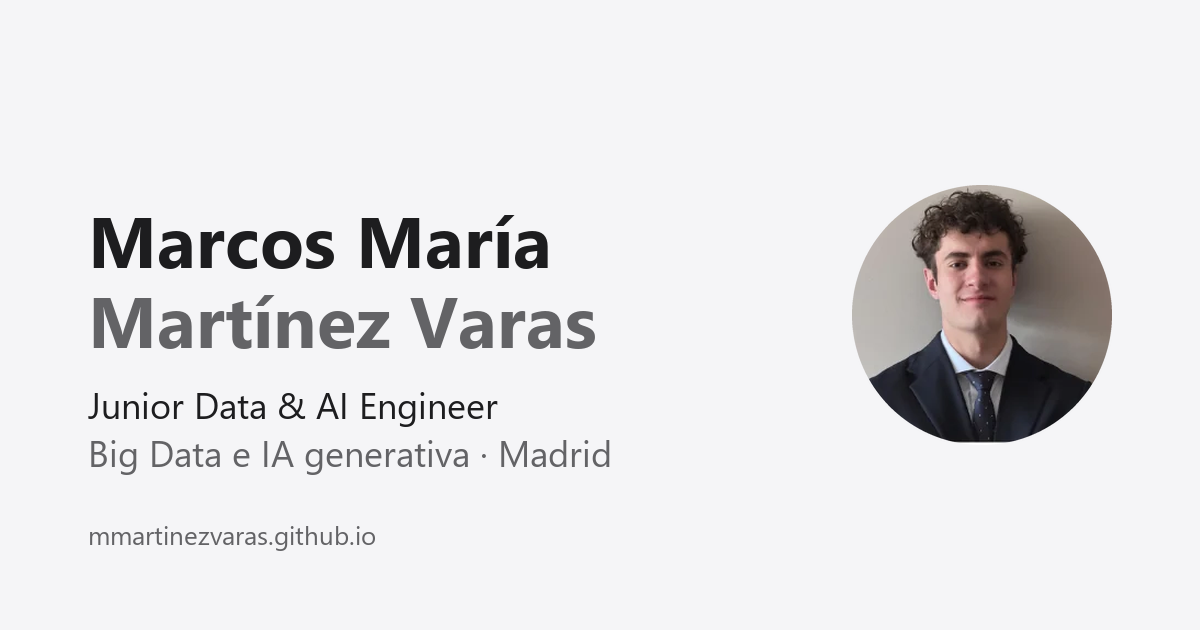
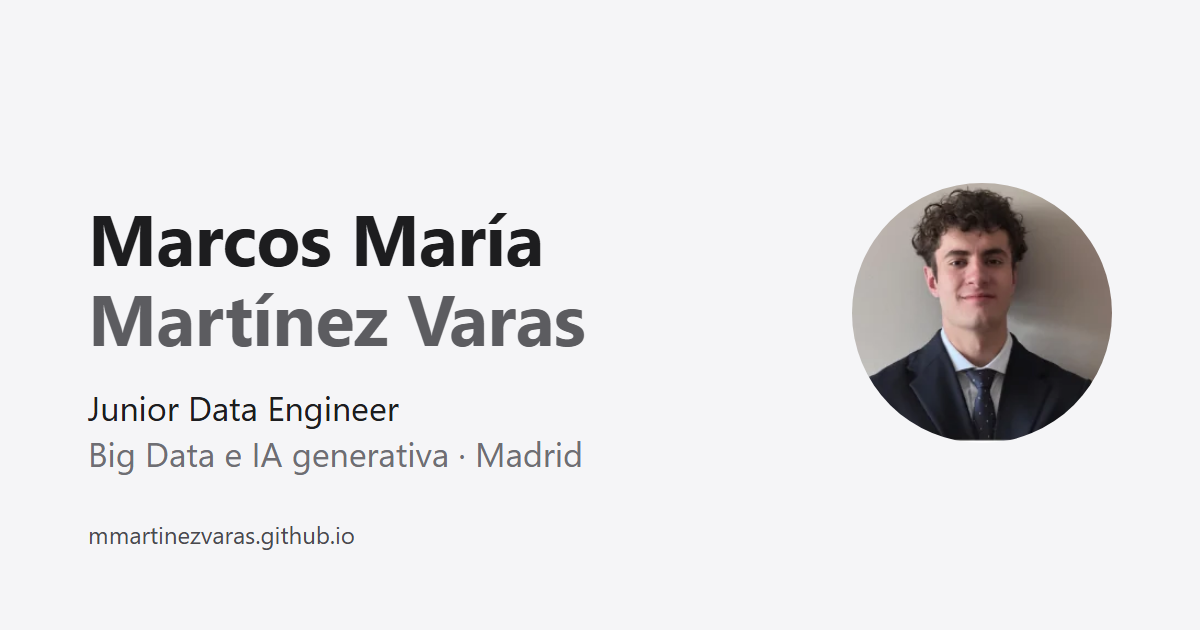
Titulo Junior Data Engineer, CV en ingles en la portada y plantilla de notas
- role, title, meta description, og:title, og:image:alt, titulo de la portada
  en seo.ts y og-image.png con el mismo titulo que el CV.
- Boton "CV in English" junto a "Descargar CV" en Inicio (en movil, ambos en una fila).
- Plantilla de nota vacia comentada en notes.ts.
- Comentario en banking-lakehouse para destacarlo cuando el pipeline este terminado.

diff --git a/src/index.html b/src/index.html
@@ -2,20 +2,20 @@
 <html lang="es">
 <head>
   <meta charset="utf-8">
-  <title>Marcos María Martínez Varas · Junior Data & AI Engineer</title>
-  <meta name="description" content="Portfolio de Marcos María Martínez Varas, Junior Data & AI Engineer en Madrid. Proyectos de IA generativa (RAG con LangChain), machine learning con scikit-learn y Big Data.">
+  <title>Marcos María Martínez Varas · Junior Data Engineer</title>
+  <meta name="description" content="Portfolio de Marcos María Martínez Varas, Junior Data Engineer en Madrid. Proyectos de IA generativa (RAG con LangChain), machine learning con scikit-learn y Big Data.">
   <!-- Canonical y og:url de /inicio/: deploy.yml los reescribe en la copia de cada ruta y el TitleStrategy los actualiza al navegar -->
   <link rel="canonical" href="https://mmartinezvaras.github.io/inicio/">
   <meta property="og:type" content="website">
   <meta property="og:site_name" content="Marcos María Martínez Varas">
   <meta property="og:locale" content="es_ES">
-  <meta property="og:title" content="Marcos María Martínez Varas · Junior Data & AI Engineer">
+  <meta property="og:title" content="Marcos María Martínez Varas · Junior Data Engineer">
   <meta property="og:description" content="Proyectos de IA generativa, machine learning y Big Data, con el problema, el resultado y el código de cada uno.">
   <meta property="og:url" content="https://mmartinezvaras.github.io/inicio/">
   <meta property="og:image" content="https://mmartinezvaras.github.io/og-image.png">
   <meta property="og:image:width" content="1200">
   <meta property="og:image:height" content="630">
-  <meta property="og:image:alt" content="Marcos María Martínez Varas, Junior Data & AI Engineer">
+  <meta property="og:image:alt" content="Marcos María Martínez Varas, Junior Data Engineer">
   <meta name="twitter:card" content="summary_large_image">
   <base href="/">
   <meta name="viewport" content="width=device-width, initial-scale=1, viewport-fit=cover, interactive-widget=resizes-content">

diff --git a/src/app/pages/inicio/inicio.ts b/src/app/pages/inicio/inicio.ts
@@ -23,7 +23,10 @@ import { site } from '../../data/site';
       <p appReveal class="lead mt-4 max-w-2xl" style="--i: 3">{{ site.intro }}</p>
 
       <div appReveal class="mt-10 grid gap-3 min-[420px]:flex min-[420px]:flex-wrap" style="--i: 4">
-        <a [href]="site.cv" [attr.download]="site.cvFileName" class="btn btn-solid">Descargar CV</a>
+        <div class="grid grid-cols-2 gap-3 min-[420px]:contents">
+          <a [href]="site.cv" [attr.download]="site.cvFileName" class="btn btn-solid">Descargar CV</a>
+          <a [href]="site.cvEn" [attr.download]="site.cvEnFileName" hreflang="en" lang="en" class="btn btn-ghost">CV in English</a>
+        </div>
         <div class="grid grid-cols-3 gap-3 min-[420px]:contents">
           <a [href]="site.github" target="_blank" rel="noopener" class="btn btn-ghost">GitHub<span class="sr-only"> (se abre en otra pestaña)</span></a>
           <a [href]="site.linkedin" target="_blank" rel="noopener" class="btn btn-ghost">LinkedIn<span class="sr-only"> (se abre en otra pestaña)</span></a>

diff --git a/src/app/data/notes.ts b/src/app/data/notes.ts
@@ -10,6 +10,18 @@ export interface Note {
 }
 
 export const notes: Note[] = [
+  // Plantilla de nota vacía: cópiala, quita los // y rellénala. El Lab las muestra en el orden de este array.
+  // {
+  //   slug: '',
+  //   title: '',
+  //   date: '',
+  //   isoDate: '',
+  //   tags: [],
+  //   summary: '',
+  //   body: [
+  //     '',
+  //   ],
+  // },
   {
     slug: 'agente-local-ollama-opencode',
     title: 'Montar un agente de programación local y gratuito en una RTX 3060',

diff --git a/src/app/core/seo.ts b/src/app/core/seo.ts
@@ -15,7 +15,7 @@ export class SeoTitleStrategy extends TitleStrategy {
 
   override updateTitle(snapshot: RouterStateSnapshot) {
     const page = this.buildTitle(snapshot);
-    const full = page ? `${page} · ${SITE}` : `${SITE} · Junior Data & AI Engineer`;
+    const full = page ? `${page} · ${SITE}` : `${SITE} · Junior Data Engineer`;
     this.title.setTitle(full);
 
     // Con barra final: es la URL que GitHub Pages sirve con 200 (sin ella responde 301)

diff --git a/src/app/data/projects.ts b/src/app/data/projects.ts
@@ -125,6 +125,7 @@ export const projects: Project[] = [
     stack: ['Python', 'pandas', 'scikit-learn', 'Jupyter'],
     repo: 'https://github.com/mmartinezvaras/laliga-match-prediction',
   },
+  // Cuando el pipeline PySpark esté terminado: poner featured: true aquí y quitarlo de rag-pdfs
   {
     slug: 'banking-lakehouse',
     name: 'Banco simulado para detectar fraude',

diff --git a/src/app/data/site.ts b/src/app/data/site.ts
@@ -1,7 +1,7 @@
 // Todo el contenido personal de la web vive aquí.
 export const site = {
   name: 'Marcos María Martínez Varas',
-  role: 'Junior Data & AI Engineer',
+  role: 'Junior Data Engineer',
   focus: 'Big Data e IA generativa',
   tagline: 'Convierto datos en decisiones.',
   intro:
